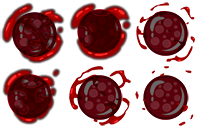
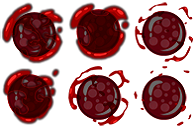
added boss/projectile functionality (maybe)
created a projectile class which damages the player while it is touching them;

created a boss class which should shoot projectiles in a line towards the player at a speed of 1 unit per frame (will probably speed this up a bit, we'll see)

for some reason the jetpack won't spawn in, making the game currently unwinnable, so I can't really see if this works, but it's functionality is pretty much there

diff --git a/Beaulax/Beaulax/Classes/Boss.cs b/Beaulax/Beaulax/Classes/Boss.cs
@@ -14,29 +14,92 @@ namespace Beaulax.Classes
         // attributes
         private Player player;
         private Texture2D enemySprite;
-        private Rectangle attackBox;
-        private float jumpHeight; // may not need, not sure if enemies will jump...
-        private Vector2 velocity;
-        private int counterWhileDamaging = 0;
-        private int atkSpeed;
+        private Texture2D projText;
+        private int atkSpeed; // how much time is between each boss's shots (in frames)
+        private int counter; // keeps track of the time
         private bool takingDamage = false;
         private bool isAlive = true;
+
+        // attack attributes
+        private bool isShoot;
+        private List<Projectile> proj;
         
         // constructor
-        public Boss (Player iPlayer, Texture2D sprite, int iHealth, int iDamage, Vector2 iLocation, int iWidth, int iHeight, int atkSpd)
+        public Boss (Player iPlayer, Texture2D sprite, Texture2D projSprite, int iHealth, int iDamage, Vector2 iLocation, int iWidth, int iHeight, int atkSpd)
         {
             player = iPlayer;
             enemySprite = sprite;
+            projText = projSprite;
             health = iHealth;
             damage = iDamage;
             location = iLocation;
             width = iWidth;
             height = iHeight;
             atkSpeed = atkSpd;
+            counter = atkSpd;
+            proj = new List<Projectile>();
         }
 
         // methods
 
-        // attack
+        /// <summary>
+        /// The ProjectileAttack method launches a projectile attack in the player's direction based on a linear equation. The 
+        /// projectile is fired from the center of the enemy, and has a cool down time of atkSpeed.
+        /// </summary>
+        public void ProjectileAttack()
+        {
+            if (isAlive)
+            {
+                if (counter == 0)
+                {
+                    float playerPos = player.Location.X + (player.HitBox.Height / 2);
+                    float prjctlOrigin = this.location.X + (this.height / 2);
+
+                    Vector2 projectDirection = new Vector2(playerPos - prjctlOrigin, player.Location.Y - this.location.Y);
+                    double pDNorm = Math.Sqrt((projectDirection.X * projectDirection.X) + (projectDirection.Y * projectDirection.Y));
+
+                    projectDirection = new Vector2(projectDirection.X / (float)pDNorm, projectDirection.Y / (float)pDNorm);
+
+                    proj.Add(new Projectile(128, 128, new Vector2(prjctlOrigin, this.Location.Y), player, 5, projectDirection, projText));
+
+                    counter = atkSpeed;
+                }
+                else
+                {
+                    counter--;
+                }
+            }
+        }
+
+        public override void Update(GameTime gameTime)
+        {
+            if (this.hitBox.Intersects(player.HitBox))
+            {
+                if (atkSpeed % 2 == 1)
+                {
+                    player.TakeDamage(1);
+                }
+            }
+
+            this.ProjectileAttack();
+
+            if (proj.Count > 0)
+            {
+                for (int i = 0; i < proj.Count; i++)
+                {
+                    proj[i].Update(gameTime);
+                }
+            }
+        }
+
+        public override void Draw(SpriteBatch spriteBatch)
+        {
+            if (isAlive)
+            {
+                spriteBatch.Begin();
+                spriteBatch.Draw(enemySprite, new Vector2((int)location.X, (int)location.Y), new Rectangle(0, 0, ENEMY_WIDTH, ENEMY_HEIGHT), Color.White, 0, Vector2.Zero, (float)0.5, SpriteEffects.None, 0);
+                spriteBatch.End();
+            }
+        }
     }
 }

diff --git a/Beaulax/Beaulax/Classes/Projectile.cs b/Beaulax/Beaulax/Classes/Projectile.cs
@@ -11,14 +11,25 @@ namespace Beaulax.Classes
 {
     class Projectile : StaticObjects
     {
-        /*// attributes
+        // attributes
         Player player;
         int damage;
         Vector2 direction;
         int dmgCoolDwn;
+        Vector2 velocity;
+        Texture2D text;
+
+        // animation
+        int animationFrameHoriz;
+        int animationFrameVert;
+        int timeBtwnFrames = 10;
+        int counter;
+        int PROJ_WIDTH = 65;
+        int PROJ_HEIGHT = 64;
+
 
         // constructor
-        public Projectile(int iWidth, int iHeight, Vector2 Location, Player play, int dmg)
+        public Projectile(int iWidth, int iHeight, Vector2 Location, Player play, int dmg, Vector2 vel, Texture2D texture)
         {
             this.width = iWidth;
             this.height = iHeight;
@@ -27,23 +38,78 @@ namespace Beaulax.Classes
             player = play;
             damage = dmg;
             dmgCoolDwn = 10;
+            velocity = vel;
+            animationFrameHoriz = 0;
+            animationFrameVert = 0;
+            text = texture;
         }
 
-        // damage method
+        /// <summary>
+        /// This method allows the projectile to deal a given amount of damage to the player 6 times a second.
+        /// </summary>
         public void DealDamage()
         {
             if (dmgCoolDwn >= 10)
             {
                 if (this.hitBox.Intersects(player.HitBox))
                 {
-                    player.TakeDamage(damage, this);
-
+                    player.TakeDamage(damage);
+                    dmgCoolDwn = 0;
                 }
             }
             else
             {
                 dmgCoolDwn++;
             }
-        }*/
+        }
+
+        /// <summary>
+        /// update the projectile object
+        /// </summary>
+        /// <param name="gameTime"> give the current time of game</param>
+        public void Update(GameTime gameTime)
+        {
+            this.DealDamage(); // deal damage
+            location += velocity;
+            hitBox = new Rectangle((int)location.X, (int)location.Y, width, height);
+
+            if (counter == timeBtwnFrames)
+            {
+                if (animationFrameHoriz < 2)
+                {
+                    animationFrameHoriz++;
+                }
+                else
+                {
+                    if (animationFrameVert == 0)
+                    {
+                        animationFrameVert = 1;
+                        animationFrameHoriz = 0;
+                    }
+                    else
+                    {
+                        animationFrameVert = 0;
+                        animationFrameHoriz = 0;
+                    }
+                }
+
+                counter = 0;
+            }
+            else
+            {
+                counter++;
+            }
+        }
+
+        /// <summary>
+        /// draw the projectile
+        /// </summary>
+        /// <param name="gameTime"></param>
+        public void Draw(GameTime gameTime, SpriteBatch spriteBatch)
+        {
+            spriteBatch.Begin();
+            spriteBatch.Draw(text, location, new Rectangle(PROJ_WIDTH * animationFrameHoriz, PROJ_HEIGHT * animationFrameVert, PROJ_WIDTH, PROJ_HEIGHT), Color.White);
+            spriteBatch.End();
+        }
     }
 }

diff --git a/Beaulax/Beaulax/Game1.cs b/Beaulax/Beaulax/Game1.cs
@@ -128,6 +128,7 @@ namespace Beaulax
         Classes.Computer comp;
         Classes.MapRoom map;
         Classes.Collectibles clct;
+        Classes.Boss boss = null;
         //MapReader mr = new MapReader(1);
 
         // create texture classes
@@ -141,12 +142,14 @@ namespace Beaulax
         public Texture2D jumpText;
         public Texture2D tankText;
         public Texture2D medText;
+        public Texture2D bossText;
+        public Texture2D projText;
 
         // character stats
         public bool hasFlash = false;
         public bool hasJump = false;
         public bool hasTank = false;
-        public int access = 0;
+        public int access = 5;
         public int playerMaxHealth = 80;
         public int playerHealth;
         public float playerJumpHeight = 9f;
@@ -274,6 +277,8 @@ namespace Beaulax
             tankText = Content.Load<Texture2D>("Oxy_Tank");
             flashText = Content.Load<Texture2D>("flashLightTemp");
             medText = Content.Load<Texture2D>("Medpack");
+            projText = Content.Load<Texture2D>("blood_projectile");
+            bossText = enemyText; // to be replaced later, with real spritesheet 
 
             //player = new Classes.Player(playerText, laserText, true, true, true, 2, 3f, 10f, initialPosition, 50, 74);
             //enemy = new Classes.Enemy(player, enemyText, 100, 10, 2f, new Vector2(600, 500), 50, 74, 250, 20);
@@ -1215,7 +1220,7 @@ namespace Beaulax
                                             break;
 
                                         case 'B':
-                                            enemies.Add(new Classes.Enemy());
+                                            //boss = new Classes.Boss(this.player, bossText, projText, 300, 10, new Vector2((pxlPerBox * (x - afterDoor)), (pxlPerBox * i) - 400), 100, 400, 100);
                                             break;
                                     }
                                     

diff --git a/Beaulax/Beaulax/Classes/Enemy.cs b/Beaulax/Beaulax/Classes/Enemy.cs
@@ -36,8 +36,8 @@ namespace Beaulax.Classes
         //enemy movement attributes
         private double timePerFrame = 100; //ms
         private int totalFrames = 8; //Just for the animation, frame 0 is the idle sprite; 9 TOTAL on spriteWalkingSheet
-        private const int ENEMY_HEIGHT = 128;
-        private const int ENEMY_WIDTH = 64;
+        protected const int ENEMY_HEIGHT = 128;
+        protected const int ENEMY_WIDTH = 64;
         private int currentFrame;
         private int framesElapsed;
 
@@ -223,7 +223,7 @@ namespace Beaulax.Classes
             takingDamage = true;
         }
 
-        public void Update(GameTime gameTime)
+        public virtual void Update(GameTime gameTime)
         {
             Movement();
             Attack();
@@ -234,7 +234,7 @@ namespace Beaulax.Classes
             currentFrame = framesElapsed % totalFrames + 1;
         }
 
-        public void Draw(SpriteBatch spriteBatch)
+        public virtual void Draw(SpriteBatch spriteBatch)
         {
             // if the enemy is taking damage and is alive then they turn red
             if (takingDamage && isAlive)
